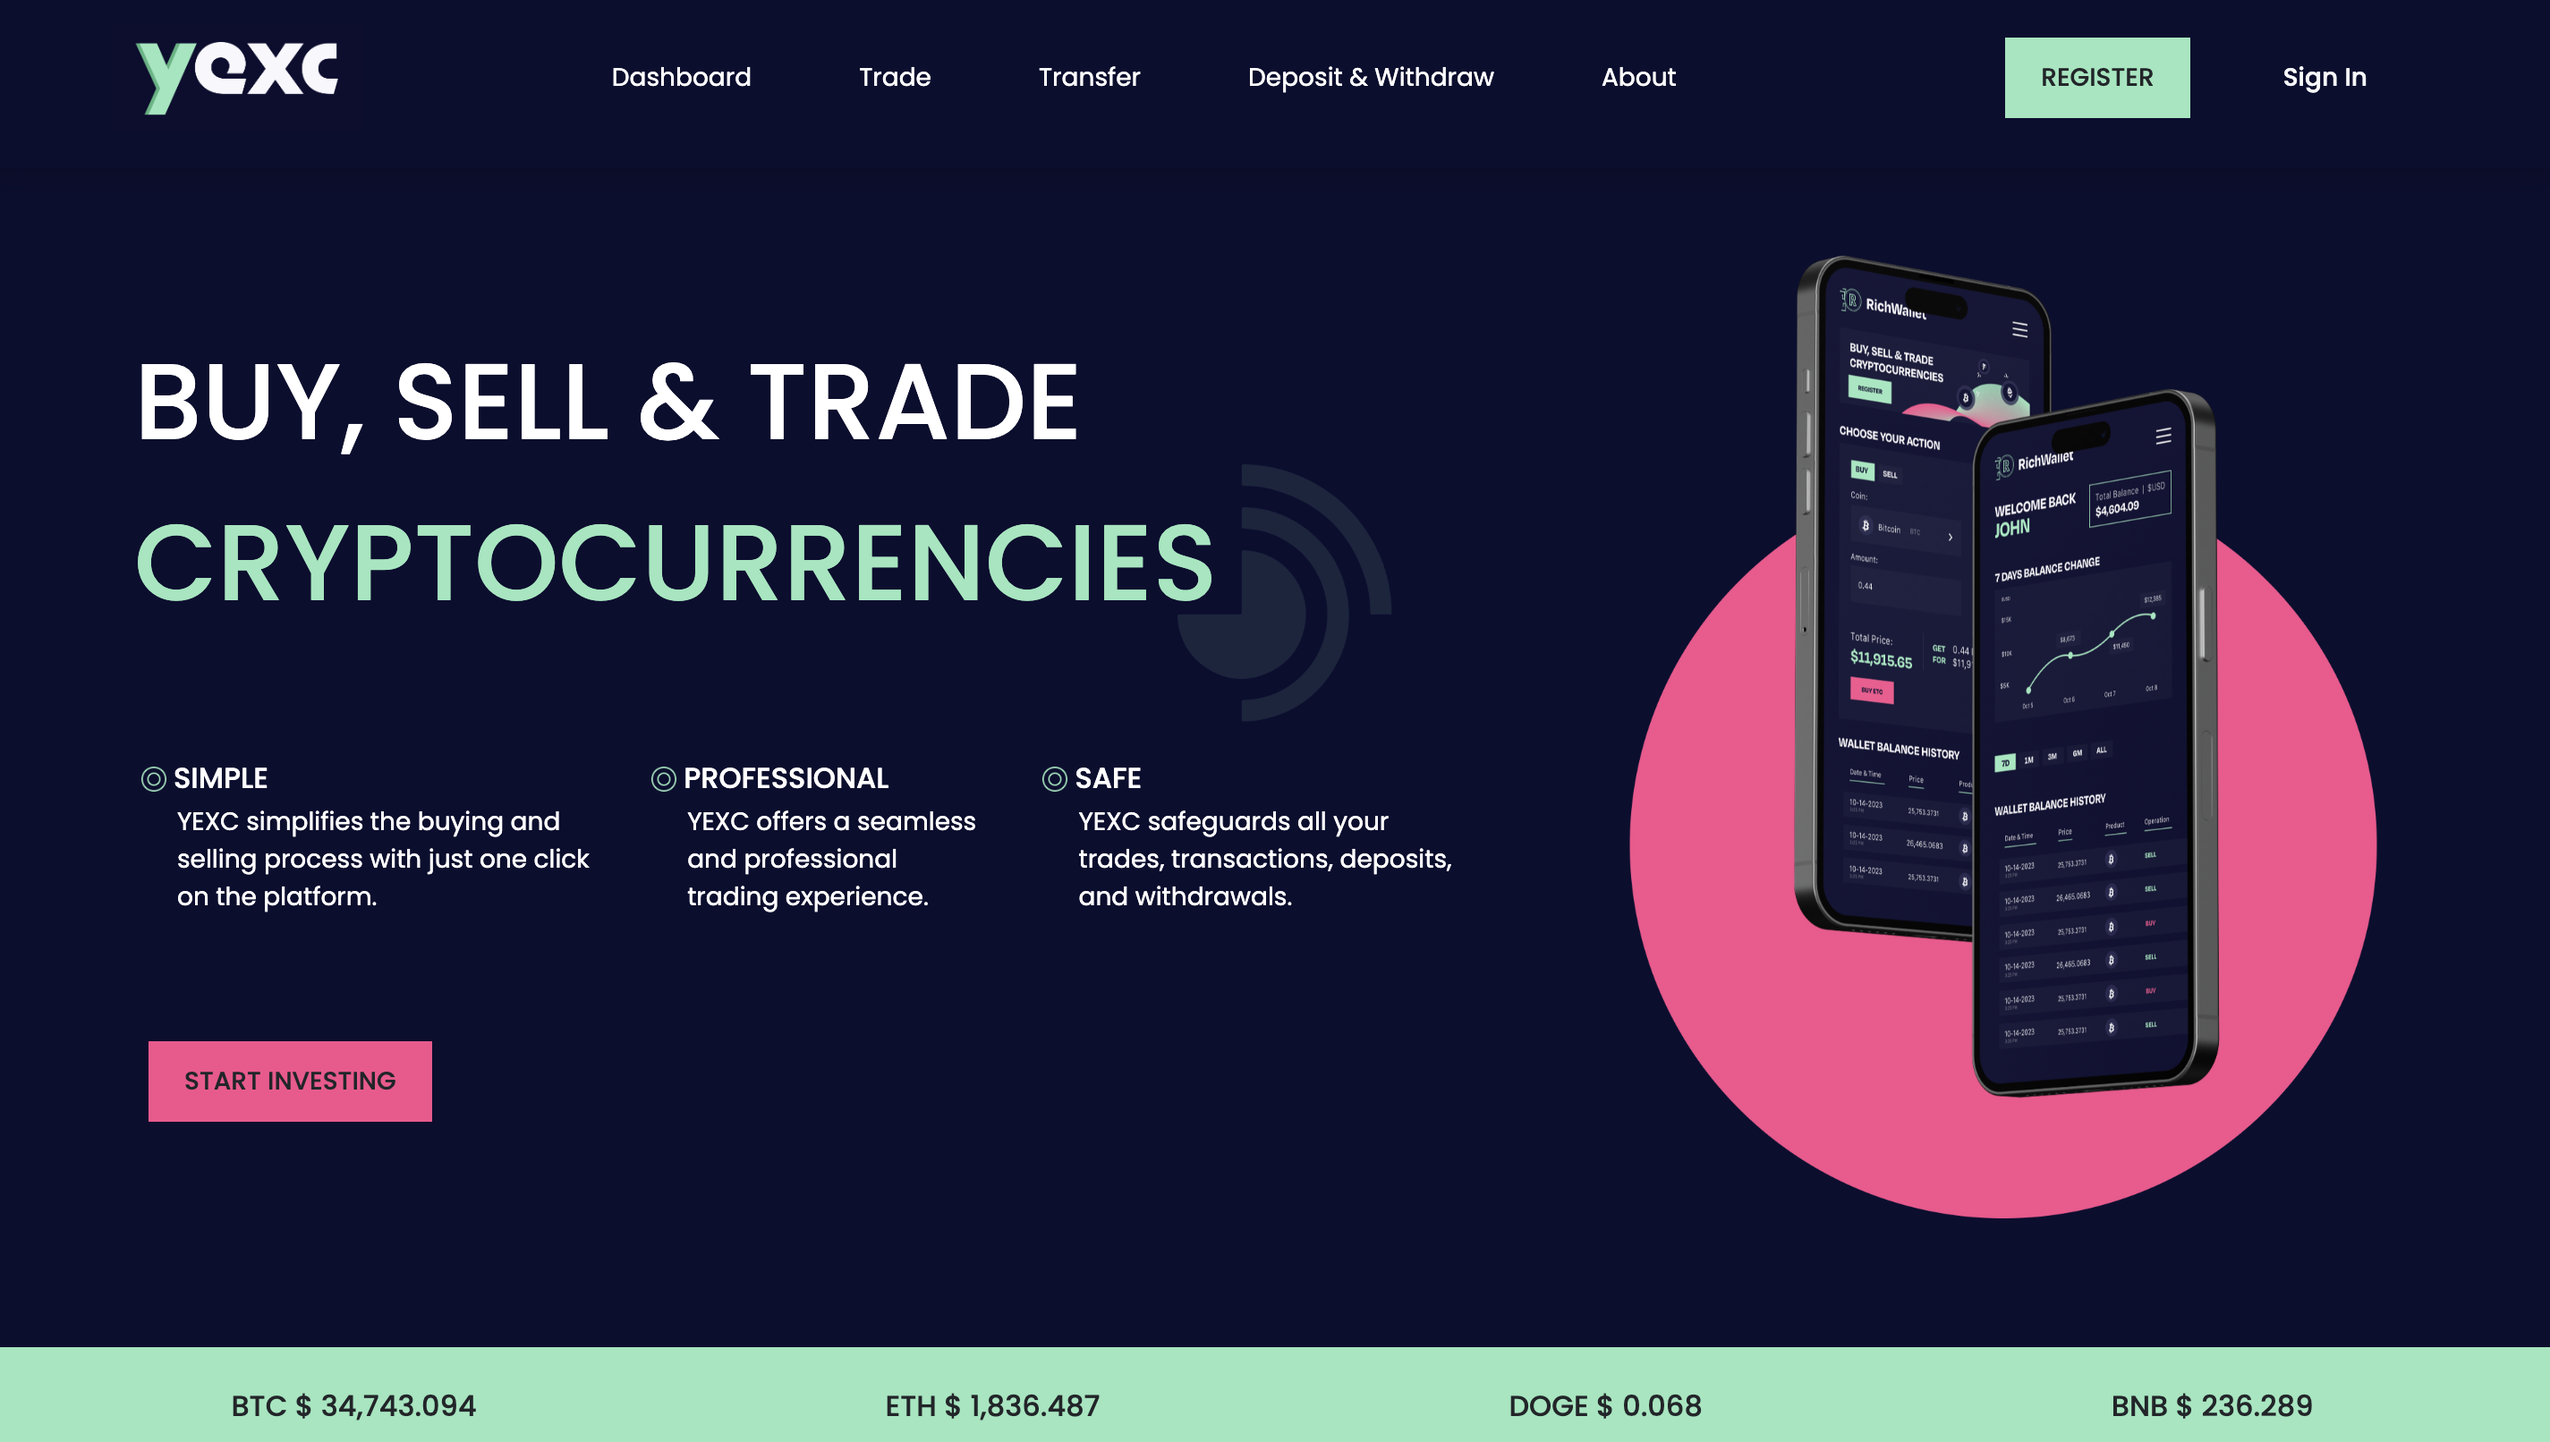
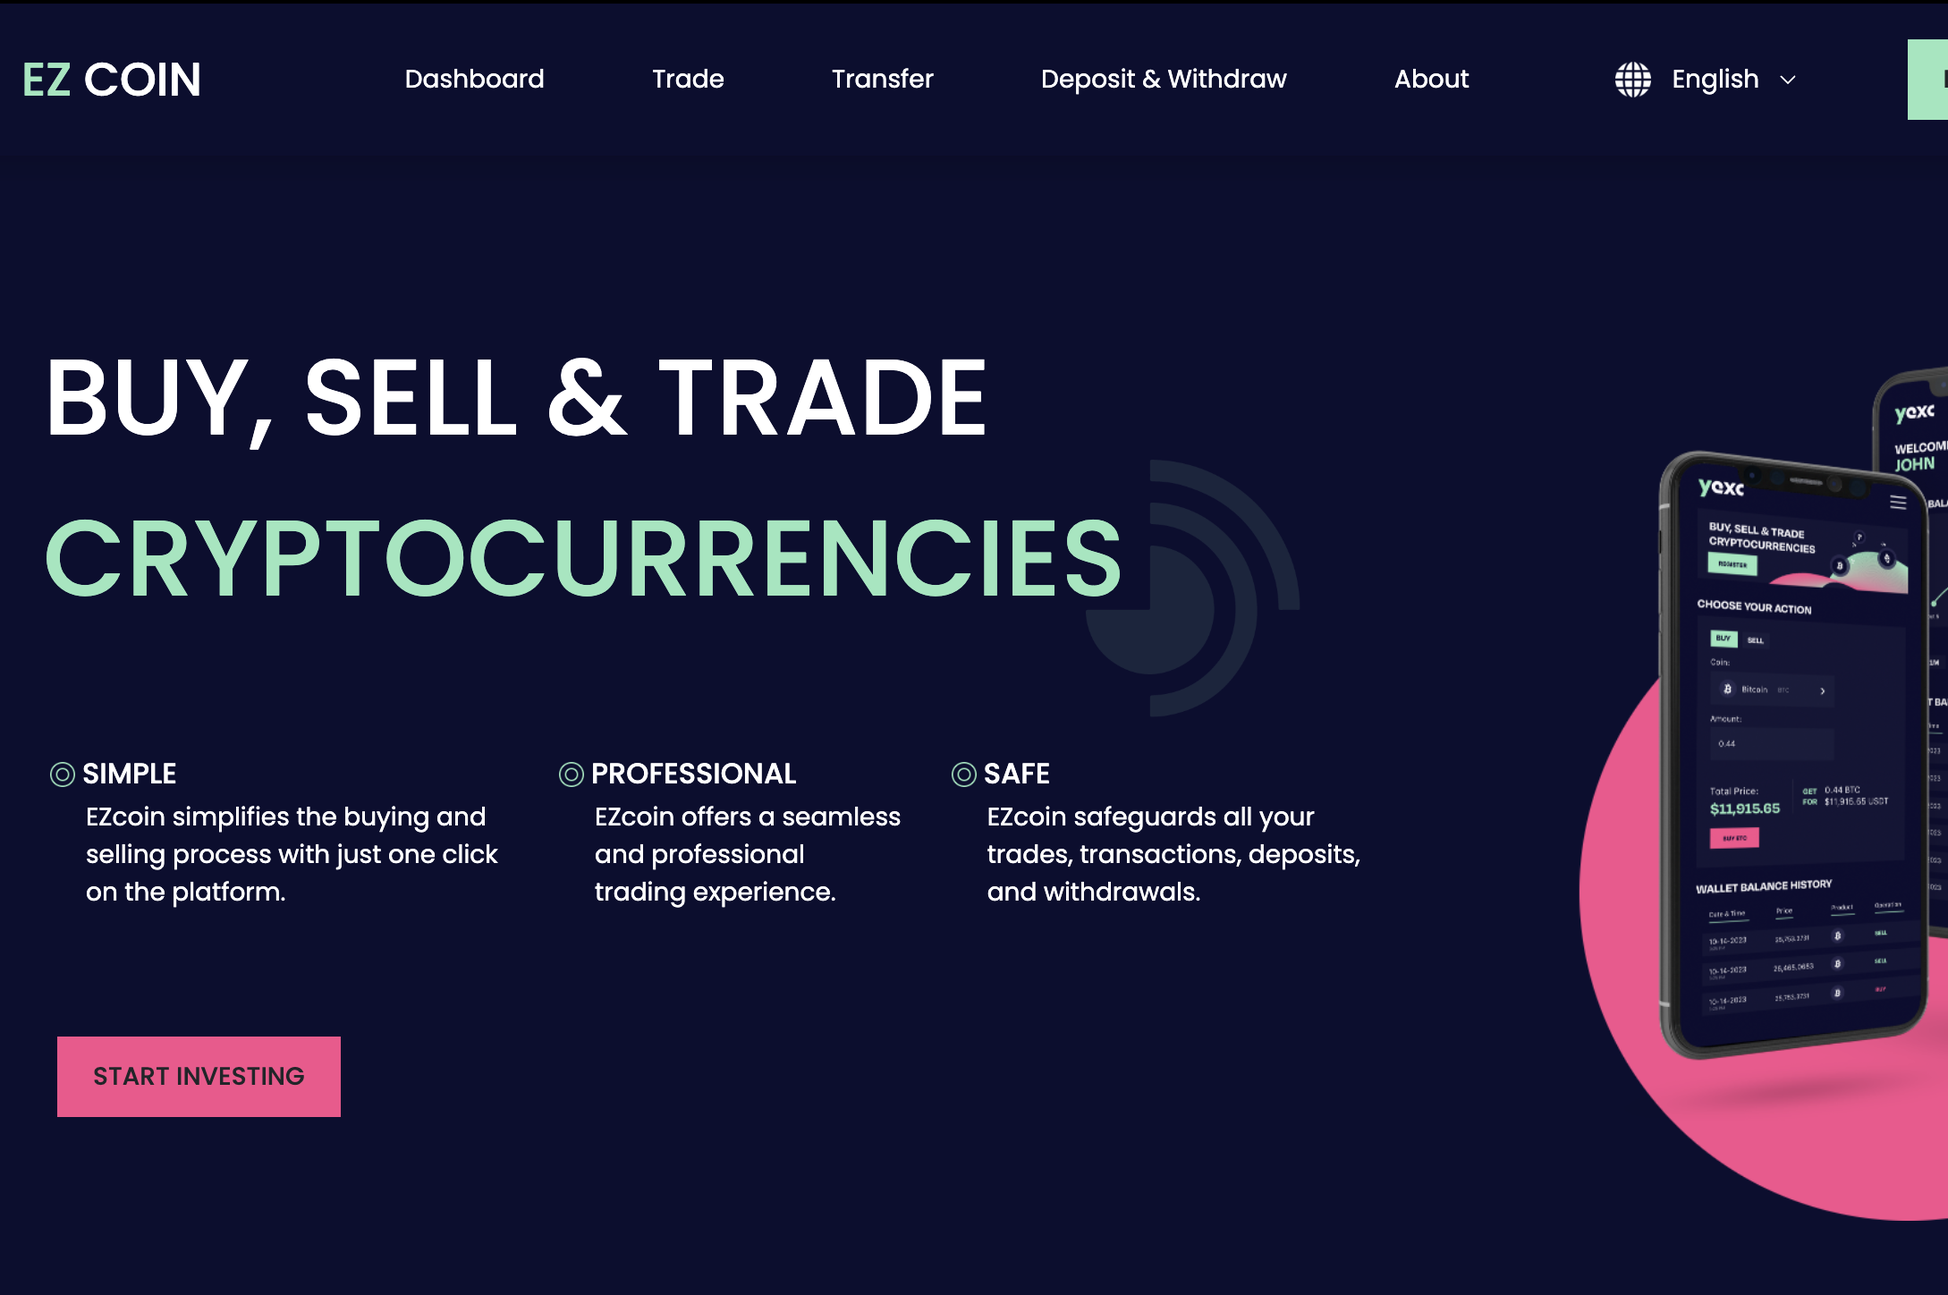
update default theme

diff --git a/src/pages/Home/index.js b/src/pages/Home/index.js
@@ -202,7 +202,7 @@ const Home = () => {
         title="Buy & Sell Cryptocurrency"
         description="A simple, professional, and secure trading experience."
         buttonText="View Website"
-        buttonLink="https://yexc.com/"
+        buttonLink="https://ezcoin.io/"
         model={{
           type: 'laptop',
           textures: [

diff --git a/src/app/reducer.js b/src/app/reducer.js
@@ -1,6 +1,6 @@
 export const initialState = {
   menuOpen: false,
-  theme: 'light',
+  theme: 'dark',
 };
 
 export function reducer(state, action) {
